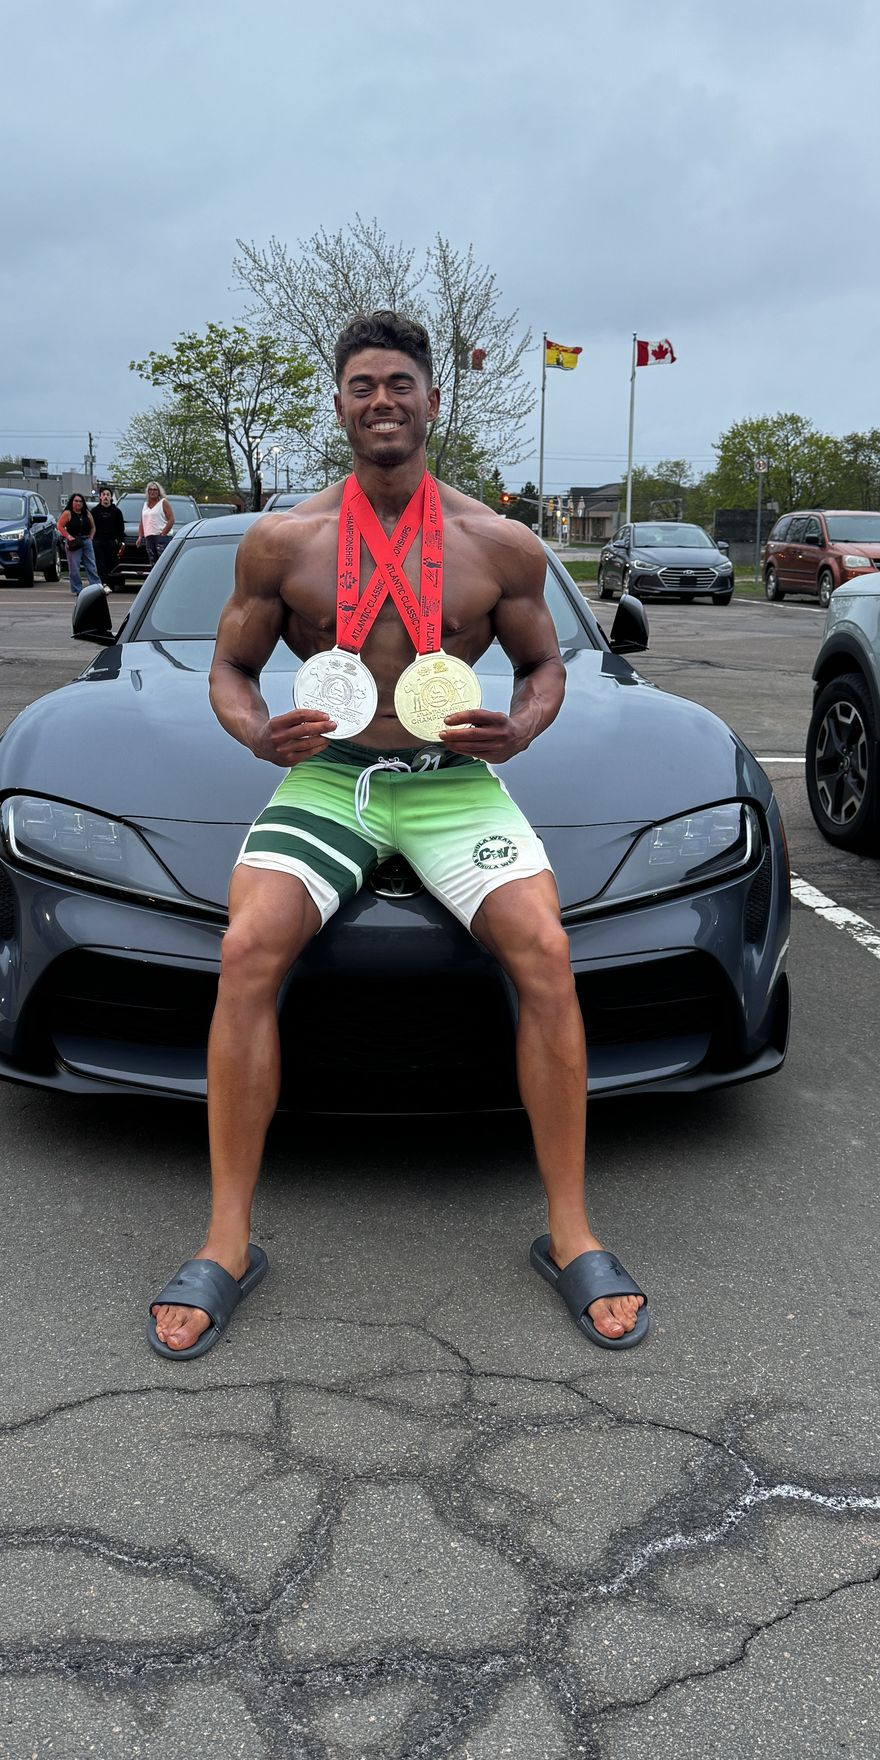
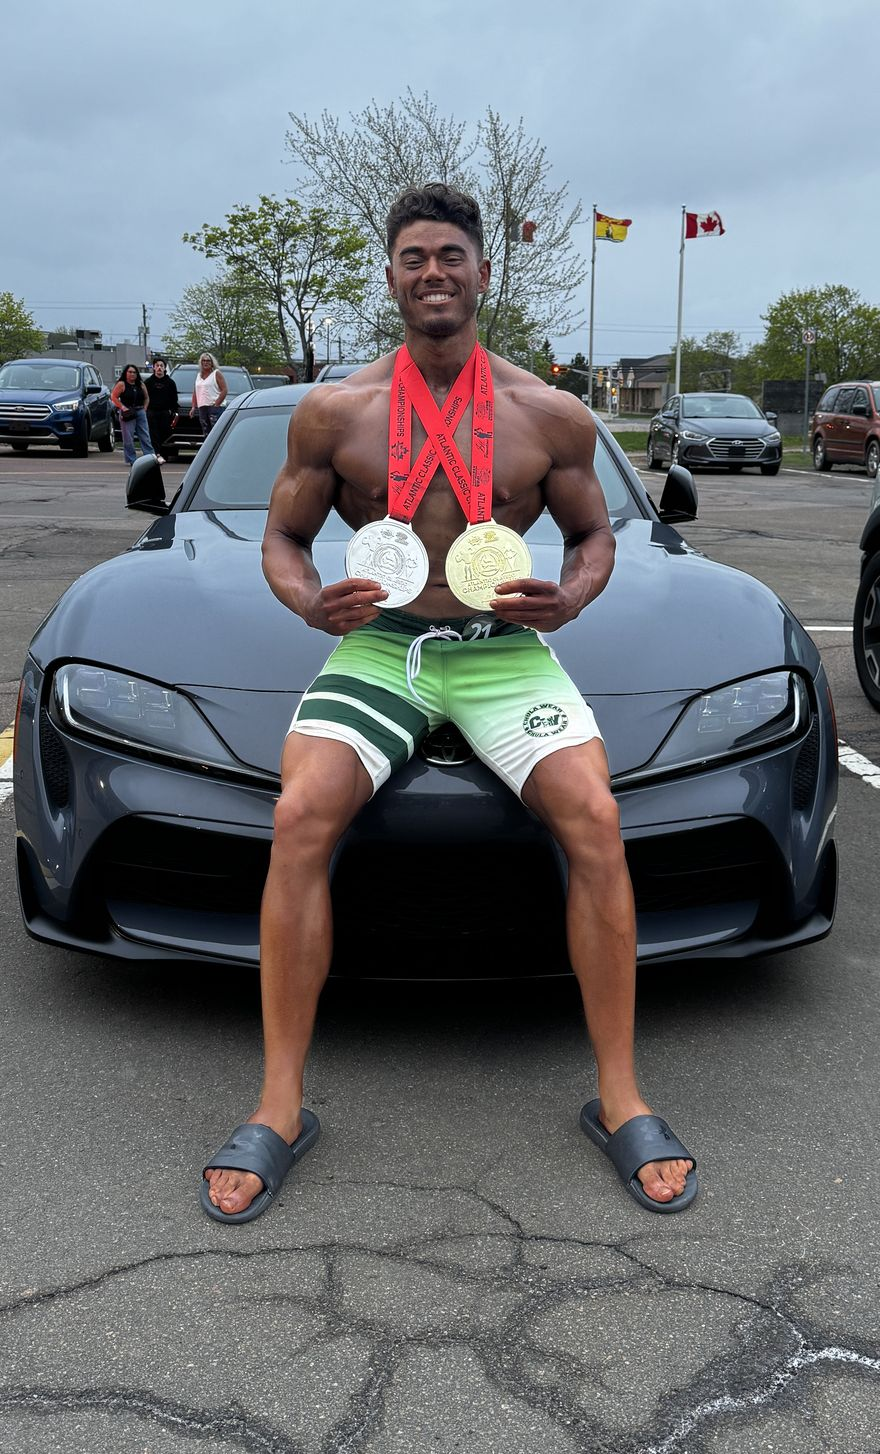
Re-center coach photo on the car; remove 'natural' from Phil's bio
- Re-crop the coach medals photo symmetric around the car so it frames evenly
- Remove 'natural' from Phil's caption, bio, and credentials (he does not
  compete natural)
- FAQ: change the question to 'Do you coach natural bodybuilders?' with a
  yes answer (Mark and other natural athletes)

Claude-Session: https://claude.ai/code/session_01H5R1pvnUmKoTdeZxw4NcN3

diff --git a/team-vincere/index.html b/team-vincere/index.html
@@ -689,17 +689,17 @@ footer{border-top:1px solid var(--edge);padding:64px 0 48px}
   <div class="wrap split">
     <div class="mind-vis coach-vis rv">
       <img src="assets/img/coach.jpg" alt="Coach Phil Dave with his 2025 Atlantic Championships medals" />
-      <div class="cap"><b>Coach Phil Dave</b>Height-class champion, 2025 Atlantic · CPA natural</div>
+      <div class="cap"><b>Coach Phil Dave</b>Height-class champion, 2025 Atlantic · CPA</div>
     </div>
     <div class="pill-copy">
       <span class="eyebrow rv">Who's coaching you</span>
       <h2 class="rv rv-d1">Coach<br>Phil Dave.</h2>
       <p class="lead rv rv-d2">Before I ever coached a bodybuilder, I spent my life competing. I grew up a gymnast, competing across Canada and at the Canadian and American national level, then coached gymnastics for over six years. I ran track in university until the money ran out and I had to walk away.</p>
-      <p class="lead rv rv-d3">The gym caught me instantly. I went from 160 to 180 pounds in three months and knew I wanted to turn pro. My first two years I did it wrong, dirty bulking and guessing. Year three I locked all the way in and never looked back. At the 2025 Atlantic Championships I won my height class and took second in true novice, natural, in the CPA. Now I'm building toward my pro card in 2027. I will never ask you to chase something I'm not chasing myself.</p>
+      <p class="lead rv rv-d3">The gym caught me instantly. I went from 160 to 180 pounds in three months and knew I wanted to turn pro. My first two years I did it wrong, dirty bulking and guessing. Year three I locked all the way in and never looked back. At the 2025 Atlantic Championships I won my height class and took second in true novice in the CPA. Now I'm building toward my pro card in 2027. I will never ask you to chase something I'm not chasing myself.</p>
       <ul class="cred-list rv rv-d2">
         <li>National-level gymnast, Canada and USA, and a coach for over six years</li>
         <li>2025 Atlantic Championships: height-class winner, 2nd in true novice</li>
-        <li>Competes natural in the CPA, building toward a pro card in 2027</li>
+        <li>Competes in the CPA, building toward a pro card in 2027</li>
         <li>Based in Montreal and Toronto, coaching athletes anywhere</li>
       </ul>
     </div>
@@ -731,7 +731,7 @@ footer{border-top:1px solid var(--edge);padding:64px 0 48px}
       <h2 class="rv rv-d1">Questions,<br>answered.</h2>
     </div>
     <div class="faq-list rv rv-d1">
-      <details class="faq-item"><summary>Is this natural?<span class="chev"></span></summary><div class="faq-a">Yes. I compete natural in the CPA, and so do my athletes. Everything I build for you is designed to get you to the stage drug free and keep the physique long after.</div></details>
+      <details class="faq-item"><summary>Do you coach natural bodybuilders?<span class="chev"></span></summary><div class="faq-a">Yes. I coach plenty of natural athletes, Mark included, and I build every plan around the exact division and category you are stepping on stage in.</div></details>
       <details class="faq-item"><summary>What does it cost?<span class="chev"></span></summary><div class="faq-a">Coaching is $350 per month, or $1,800 for a six-month block, which works out cheaper and is how most serious preps run. Posing coaching is a separate add-on.</div></details>
       <details class="faq-item"><summary>Is it online or in person?<span class="chev"></span></summary><div class="faq-a">Coaching is fully online, so I can work with you wherever you are. If you're in the Montreal or Toronto area, you can add in-person training on top.</div></details>
       <details class="faq-item"><summary>Do I need to have competed before?<span class="chev"></span></summary><div class="faq-a">No. First timer or seasoned, everyone is welcome on one condition: you are willing to actually live the lifestyle of a bodybuilder. The standard does not bend.</div></details>
